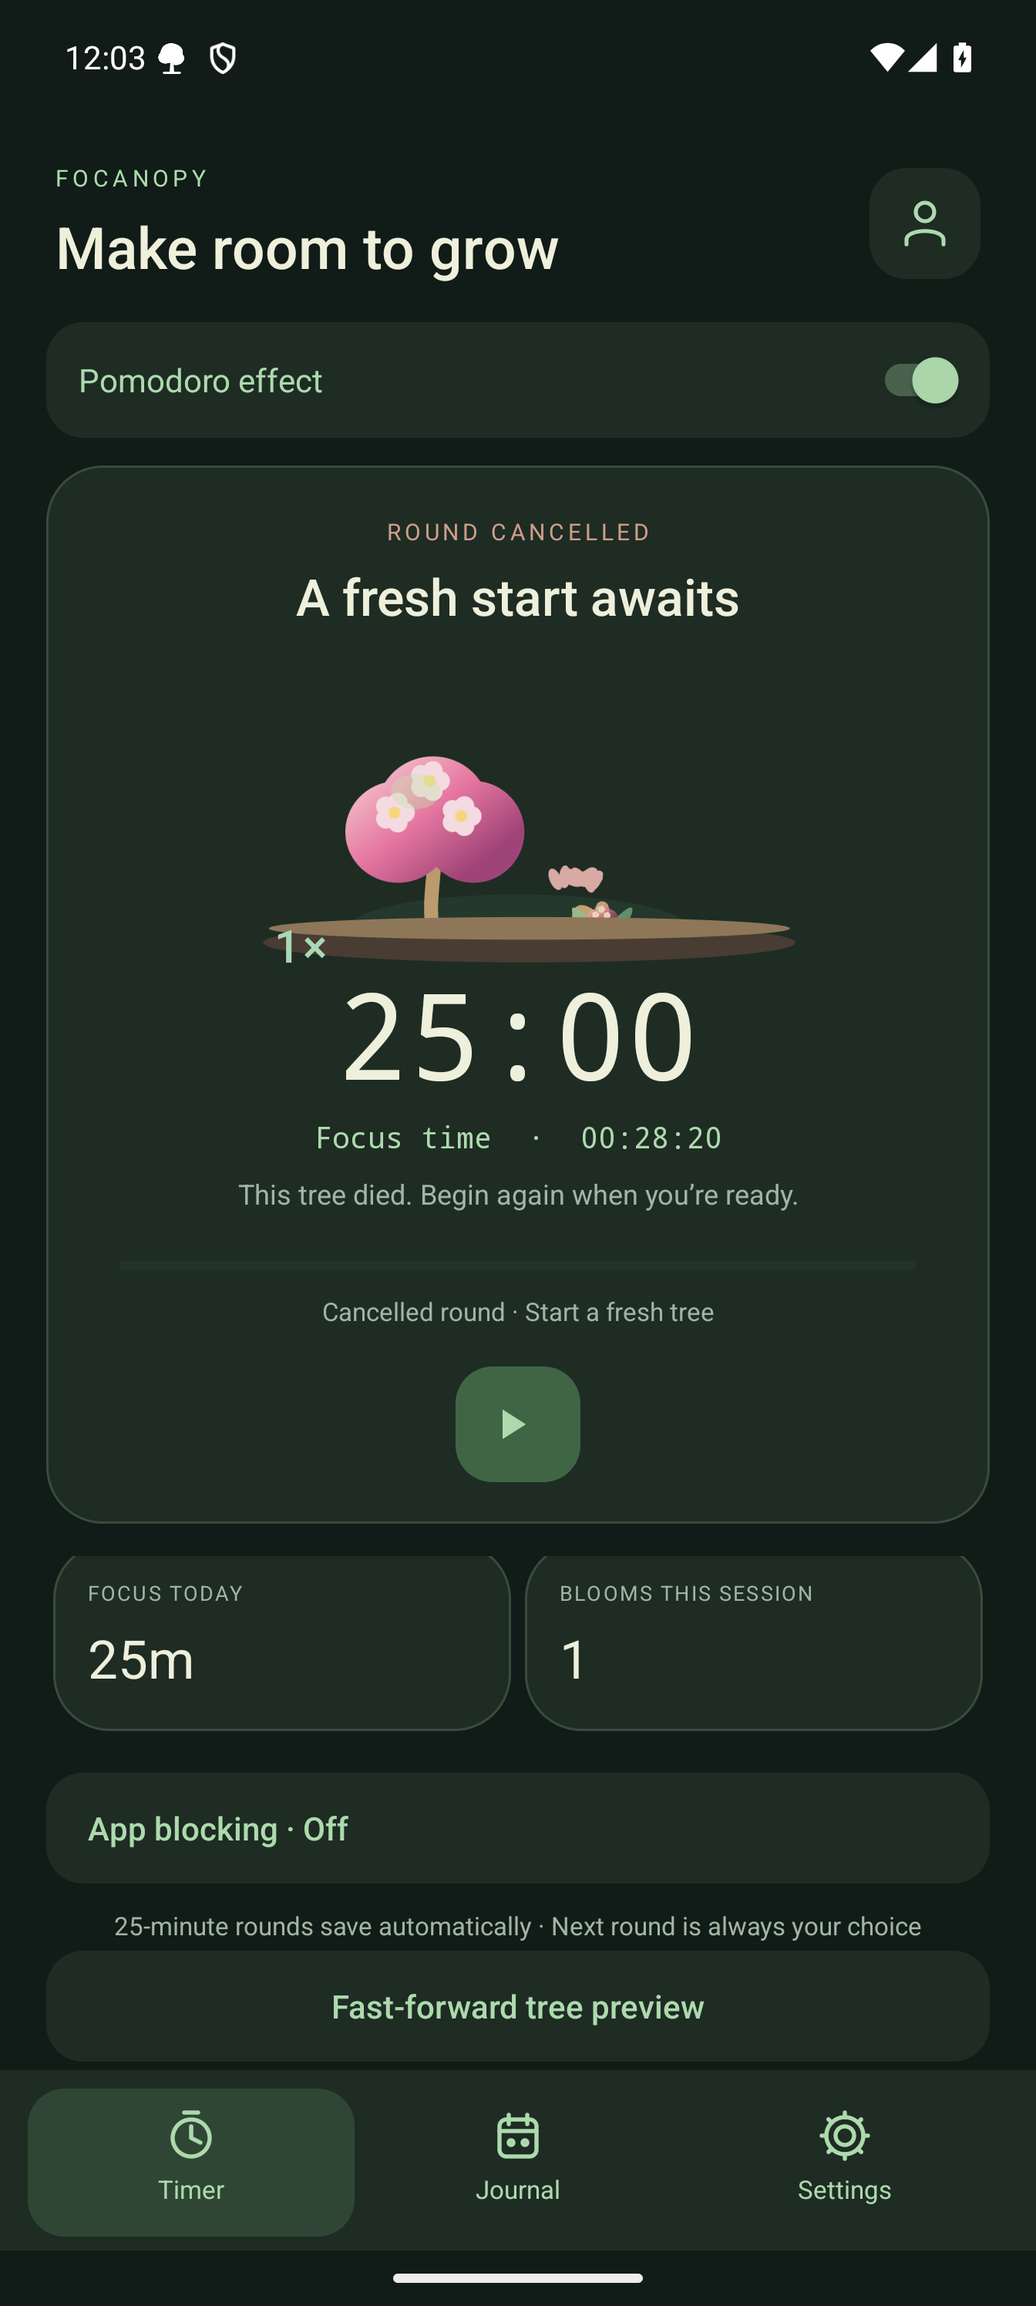
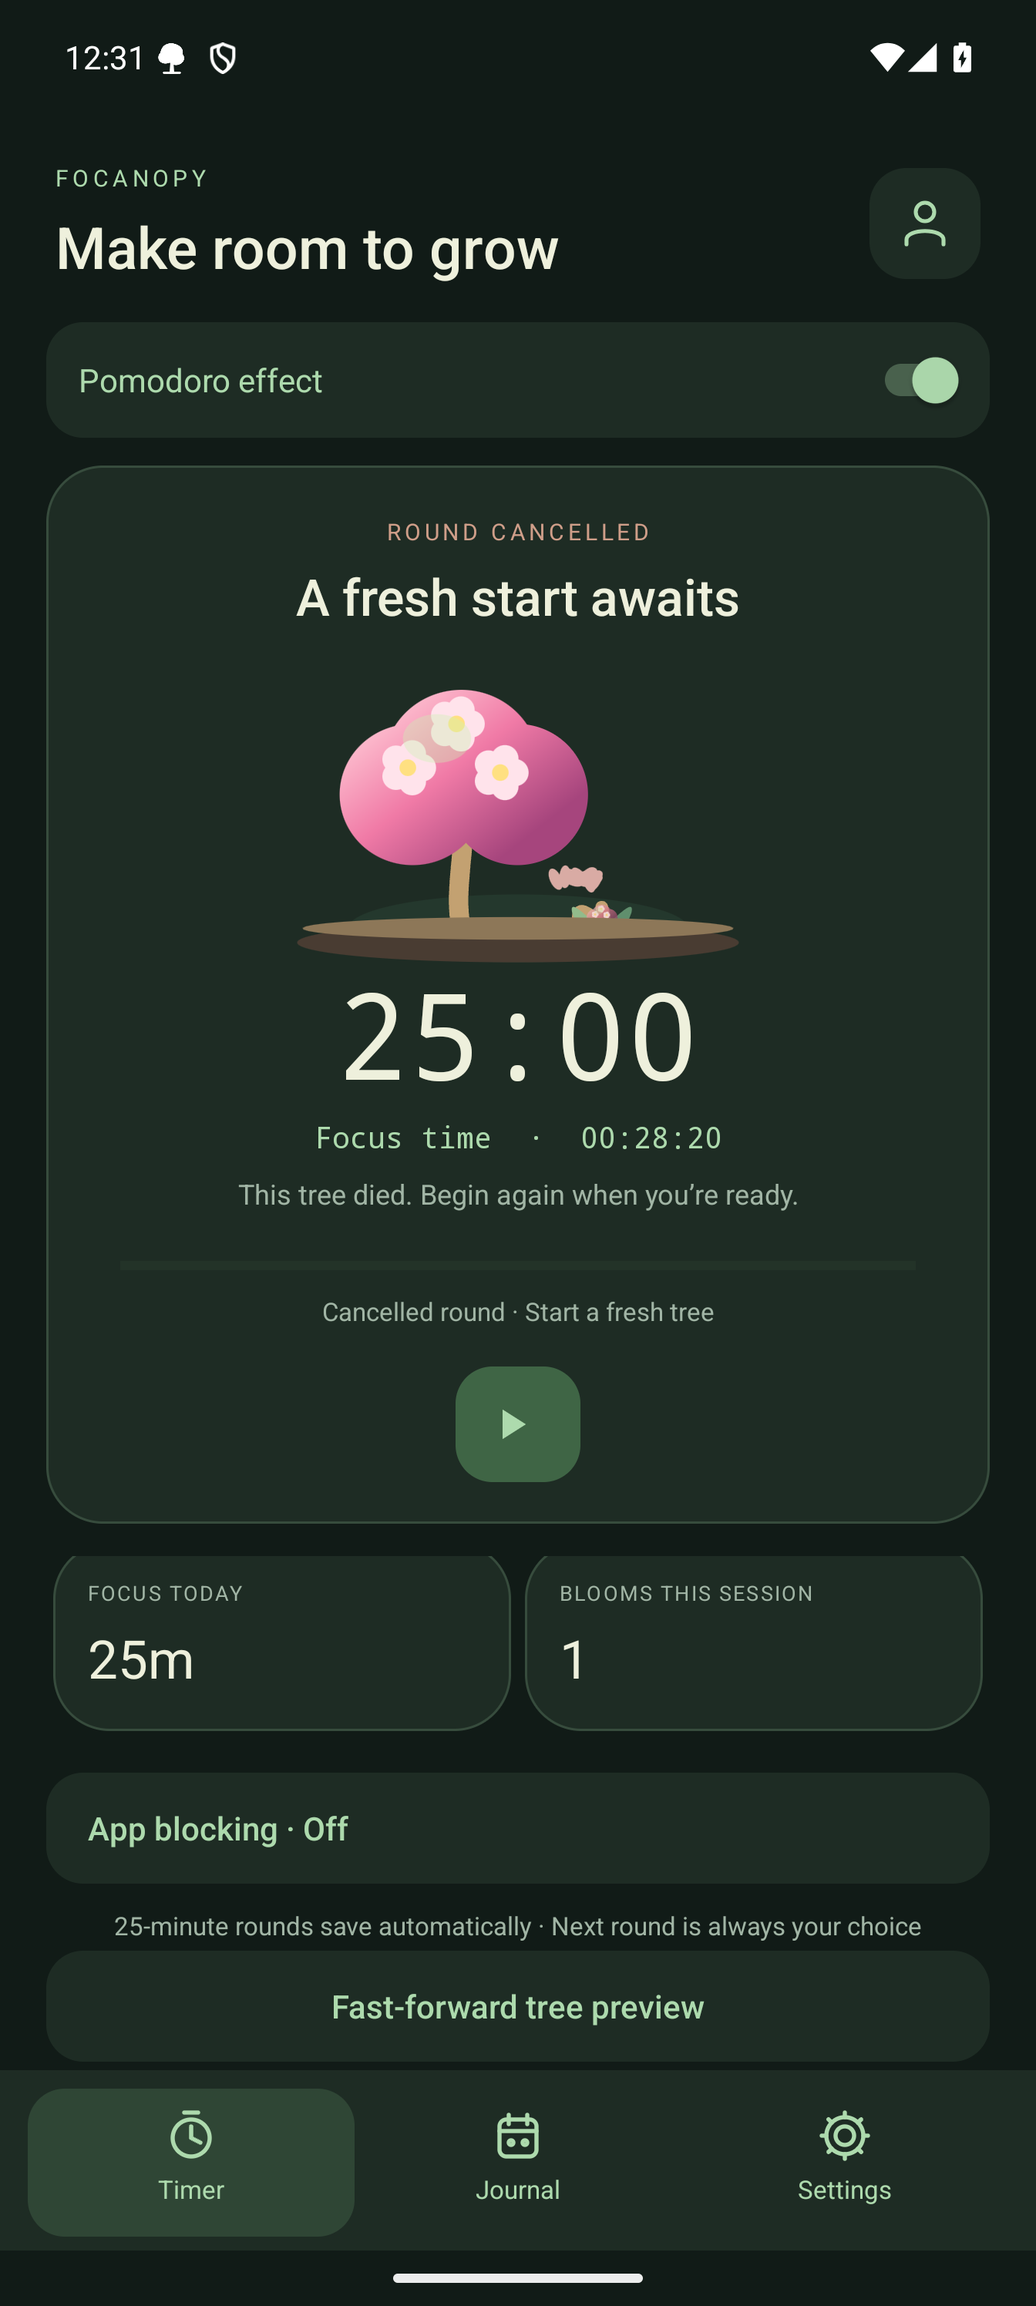
Preserve tree continuity with layered grove handoff animation

Changed region(s): [[0.3125, 0.2797, 0.5625, 0.4041], [0.6875, 0.373, 0.75, 0.4352], [0.25, 0.4041, 0.3125, 0.4352]]

diff --git a/macos/Sources/MochiStopwatch/Views.swift b/macos/Sources/MochiStopwatch/Views.swift
@@ -73,24 +73,22 @@ struct GrowingTree: View {
                         c.fill(Path(ellipseIn:CGRect(x:43,y:top-16,width:14,height:10)),with:.color(Color(red:0.8,green:0.95,blue:0.7).opacity(0.35)))
                     }
                 }
-                if n>0 {
-                    let centers:[Double]=n==1 ? [40] : n==2 ? [26,44] : [19,35,51]
-                    for (i,x) in centers.enumerated() { tree(1,0.95,x,n==1 ? 0.62 : i==1 ? 0.52 : 0.44) }
-                }
-                let activeX:Double=n==1 ? 66 : n==2 ? 70 : n>2 ? 77 : 55
-                tree(remainder/3600,1,activeX,1,dry)
-                ellipse(CGRect(x:n>0 ? 10:activeX-25,y:50,width:n>0 ? 94:51,height:7),Color(red:0.29,green:0.24,blue:0.20))
-                ellipse(CGRect(x:n>0 ? 11:activeX-24,y:49,width:n>0 ? 92:49,height:4),(dry ? Color(red:0.55,green:0.47,blue:0.35) : Color(red:0.42,green:0.61,blue:0.44)))
+                let grove=GroveFrame.at(count:n,remainder:remainder,animated:animated && !reduceMotion,flower:flower)
+                for layer in grove.trees {tree(1,layer.alpha,layer.x,layer.scale)}
+                let activeX=grove.active
+                tree(remainder/3600,grove.seedAlpha,activeX,1,dry)
+                ellipse(CGRect(x:16,y:50,width:78,height:7),Color(red:0.29,green:0.24,blue:0.20))
+                ellipse(CGRect(x:17,y:49,width:76,height:4),dry ? Color(red:0.55,green:0.47,blue:0.35):Color(red:0.42,green:0.61,blue:0.44))
                 if motion && phase == .running {
                     let u=t.truncatingRemainder(dividingBy:3.6)/3.6, fall=min(1,u/0.78), y=3+44*fall*fall
                     let water=ctx
                     if u<0.78 {
-                        var p=Path(); p.move(to:CGPoint(x:84,y:y-5)); p.addCurve(to:CGPoint(x:81,y:y+5),control1:CGPoint(x:82,y:y-2),control2:CGPoint(x:78,y:y+3)); p.addCurve(to:CGPoint(x:84,y:y-5),control1:CGPoint(x:87,y:y+9),control2:CGPoint(x:90,y:y+2))
+                        var p=Path(); p.move(to:CGPoint(x:activeX+4,y:y-5)); p.addCurve(to:CGPoint(x:activeX+1,y:y+5),control1:CGPoint(x:activeX+2,y:y-2),control2:CGPoint(x:activeX-2,y:y+3)); p.addCurve(to:CGPoint(x:activeX+4,y:y-5),control1:CGPoint(x:activeX+7,y:y+9),control2:CGPoint(x:activeX+10,y:y+2))
                         water.fill(p,with:.color(Color(red:0.65,green:0.85,blue:0.80)))
-                        water.fill(Path(ellipseIn:CGRect(x:82,y:y+1,width:1.5,height:2.5)),with:.color(.white.opacity(0.8)))
+                        water.fill(Path(ellipseIn:CGRect(x:activeX+2,y:y+1,width:1.5,height:2.5)),with:.color(.white.opacity(0.8)))
                     } else {
                         let r=(u-0.78)/0.22
-                        water.stroke(Path(ellipseIn:CGRect(x:84-10*r,y:51-2*r,width:20*r,height:4*r)),with:.color(Color.cyber.opacity((1-r)*0.65)),lineWidth:0.8)
+                        water.stroke(Path(ellipseIn:CGRect(x:activeX+4-10*r,y:51-2*r,width:20*r,height:4*r)),with:.color(Color.cyber.opacity((1-r)*0.65)),lineWidth:0.8)
                     }
                 }
                 if dead {
@@ -106,7 +104,7 @@ struct GrowingTree: View {
                         }
                     }
                 }
-                if n>0 { ctx.draw(Text("\(n)×").font(.system(size:8,weight:.semibold)).foregroundStyle(Color(red:0.66,green:0.85,blue:0.71)),at:CGPoint(x:23,y:55)) }
+
             }
         }.frame(width:110,height:58)
         .task(id:dead) {

diff --git a/android/app/src/main/java/com/cybercat/stopwatch/TreeView.kt b/android/app/src/main/java/com/cybercat/stopwatch/TreeView.kt
@@ -74,23 +74,21 @@ class TreeView(c:Context):View(c) {
                 ellipse(43f,top-16,14f,10f,Color.argb(95,203,242,180));c.restoreToCount(alphaLayer); c.restore()
             }; c.restoreToCount(layer)
         }
-        if(n>0) {
-            val centers=if(n==1L)listOf(40f) else if(n==2L)listOf(26f,44f) else listOf(19f,35f,51f)
-            centers.forEachIndexed { i,x -> tree(1f,.95f,x,if(n==1L).62f else if(i==1).52f else .44f) }
-        }
-        val active=if(n==1L)66f else if(n==2L)70f else if(n>2)77f else 55f
-        tree(remainder/3600,1f,active,1f,dry)
-        ellipse(if(n>0)10f else active-25,50f,if(n>0)94f else 51f,7f,Color.rgb(73,60,50)); ellipse(if(n>0)11f else active-24,49f,if(n>0)92f else 49f,4f,if(dry)Color.rgb(141,119,88) else Color.rgb(106,156,112))
+        val grove=Grove.frame(n,remainder,animate && motionEnabled,flower)
+        grove.trees.forEach {tree(1f,it.alpha,it.x,it.scale)}
+        val active=grove.active
+        tree(remainder/3600,grove.seedAlpha,active,1f,dry)
+        ellipse(16f,50f,78f,7f,Color.rgb(73,60,50));ellipse(17f,49f,76f,4f,if(dry)Color.rgb(141,119,88) else Color.rgb(106,156,112))
         if(motion && phase=="running") {
             c.saveLayerAlpha(0f,0f,110f,58f,255)
             val u=(t%3.6/3.6).toFloat(); val fall=(u/.78f).coerceAtMost(1f); val y=3+44*fall*fall
             if(u<.78) {
-                val drop=Path().apply { moveTo(84f,y-5); cubicTo(82f,y-2,78f,y+3,81f,y+5); cubicTo(87f,y+9,90f,y+2,84f,y-5) }
+                val drop=Path().apply { moveTo(active+4,y-5); cubicTo(active+2,y-2,active-2,y+3,active+1,y+5); cubicTo(active+7,y+9,active+10,y+2,active+4,y-5) }
                 paint.shader=null; paint.style=Paint.Style.FILL; paint.color=Color.rgb(165,217,204); c.drawPath(drop,paint)
-                ellipse(82f,y+1,1.5f,2.5f,Color.rgb(212,245,255))
+                ellipse(active+2,y+1,1.5f,2.5f,Color.rgb(212,245,255))
             } else {
                 val r=(u-.78f)/.22f; paint.style=Paint.Style.STROKE; paint.color=Color.argb(((1-r)*160).toInt(),165,217,204); paint.strokeWidth=.8f
-                c.drawOval(84-10*r,51-2*r,84+10*r,51+2*r,paint)
+                c.drawOval(active+4-10*r,51-2*r,active+4+10*r,51+2*r,paint)
             }; c.restore()
         }
         if(phase=="dead") {
@@ -106,7 +104,6 @@ class TreeView(c:Context):View(c) {
                 }
             }
         }
-        if(n>0) { paint.shader=null; paint.style=Paint.Style.FILL; paint.color=Color.rgb(168,217,180); paint.textSize=8f; paint.typeface=Typeface.create("sans-serif-medium",Typeface.NORMAL); c.drawText("${n}×",12f,57f,paint) }
         c.restore()
     }
 }

diff --git a/macos/Sources/MochiStopwatch/Model.swift b/macos/Sources/MochiStopwatch/Model.swift
@@ -269,7 +269,24 @@ struct TreePreviewFrame {
         let t=max(0,min(27,time))
         if t<10 {return .init(elapsed:t/10*1500,dead:false,death:0,title:"01 · A seed becomes a flower")}
         if t<12 {return .init(elapsed:1500,dead:false,death:0,title:"02 · 25 minutes complete — flower saved")}
-        if t<20 {return .init(elapsed:1500+(t-12)/8*975,dead:false,death:0,title:"03 · A second tree begins")}
+        if t<14.4 {return .init(elapsed:1500+t-12,dead:false,death:0,title:"03 · A second tree begins")}
+        if t<20 {return .init(elapsed:1502.4+(t-14.4)/5.6*972.6,dead:false,death:0,title:"03 · A second tree begins")}
         return .init(elapsed:2475,dead:true,death:min(1,(t-20)/3.4),title:t<23.4 ? "04 · Cancelled — the unfinished tree withers":"05 · Completed flower safe · Cancelled tree lost")
+    }
+}
+
+/// Elapsed-time choreography keeps a completed tree continuous across the hour boundary.
+struct GroveFrame {
+    struct Tree {let x:Double;let scale:Double;let alpha:Double}
+    let trees:[Tree];let active:Double;let seedAlpha:Double
+    static func at(count:Int,remainder:Double,animated:Bool=true,flower:Bool=false)->GroveFrame {
+        let v=animated ? min(1,max(0,remainder/(flower ? 5.76:2.4))):1
+        let ease=v*v*(3-2*v)
+        let targets=[Tree(x:45,scale:0.86,alpha:1),Tree(x:30,scale:0.70,alpha:0.86),Tree(x:20,scale:0.56,alpha:0.72),Tree(x:12,scale:0.46,alpha:0)]
+        let trees=(0..<min(count,4)).reversed().map {rank in
+            let a=rank==0 ? Tree(x:count==1 ? 55:66,scale:1,alpha:1):targets[rank-1],b=targets[rank]
+            return Tree(x:a.x+(b.x-a.x)*ease,scale:a.scale+(b.scale-a.scale)*ease,alpha:a.alpha+(b.alpha-a.alpha)*ease)
+        }
+        return GroveFrame(trees:trees,active:count>0 ? 66:55,seedAlpha:count>0 ? ease:1)
     }
 }

diff --git a/android/app/src/test/java/com/cybercat/stopwatch/GroveTest.kt b/android/app/src/test/java/com/cybercat/stopwatch/GroveTest.kt
@@ -1,0 +1,19 @@
+package com.cybercat.stopwatch
+import org.junit.Assert.*
+import org.junit.Test
+class GroveTest {
+    @Test fun completedTreeKeepsItsOriginalPoseAtBoundary() {
+        val start=Grove.frame(1,0f);assertEquals(55f,start.trees.single().x,0f);assertEquals(1f,start.trees.single().scale,0f);assertEquals(0f,start.seedAlpha,0f)
+        val half=Grove.frame(1,1.2f);assertEquals(50f,half.trees.single().x,.001f);assertEquals(.5f,half.seedAlpha,.001f)
+        assertEquals(45f,Grove.frame(1,2.4f).trees.single().x,.001f)
+    }
+    @Test fun nextBoundaryPreservesEveryExistingTreeAndBoundsClutter() {
+        val start=Grove.frame(2,0f);assertEquals(45f,start.trees[0].x,0f);assertEquals(66f,start.trees[1].x,0f)
+        assertEquals(4,Grove.frame(100,5f).trees.size);assertEquals(0f,Grove.frame(100,5f).trees.first().alpha,0f)
+        assertEquals(Grove.frame(2,1f),Grove.frame(2,1f))
+    }
+    @Test fun reducedMotionSettlesImmediatelyAndFlowerUsesSameRealDuration() {
+        assertEquals(45f,Grove.frame(1,0f,false).trees[0].x,0f)
+        assertEquals(.5f,Grove.frame(1,2.88f,true,true).seedAlpha,.001f)
+    }
+}

diff --git a/android/app/src/main/java/com/cybercat/stopwatch/Grove.kt b/android/app/src/main/java/com/cybercat/stopwatch/Grove.kt
@@ -1,0 +1,17 @@
+package com.cybercat.stopwatch
+
+/** Pure layout: preserves the completed tree while the next seed emerges in front. */
+object Grove {
+    data class Tree(val x:Float,val scale:Float,val alpha:Float)
+    data class Frame(val trees:List<Tree>,val active:Float,val seedAlpha:Float)
+    fun frame(count:Long,remainder:Float,animated:Boolean=true,flower:Boolean=false):Frame {
+        val v=if(animated)(remainder/(if(flower)5.76f else 2.4f)).coerceIn(0f,1f) else 1f
+        val ease=v*v*(3-2*v)
+        val targets=listOf(Tree(45f,.86f,1f),Tree(30f,.70f,.86f),Tree(20f,.56f,.72f),Tree(12f,.46f,0f))
+        val trees=(0 until minOf(count,4).toInt()).reversed().map {rank->
+            val a=if(rank==0)Tree(if(count==1L)55f else 66f,1f,1f) else targets[rank-1];val b=targets[rank]
+            Tree(a.x+(b.x-a.x)*ease,a.scale+(b.scale-a.scale)*ease,a.alpha+(b.alpha-a.alpha)*ease)
+        }
+        return Frame(trees,if(count>0)66f else 55f,if(count>0)ease else 1f)
+    }
+}

diff --git a/macos/Tests/MochiTests/StopwatchTests.swift b/macos/Tests/MochiTests/StopwatchTests.swift
@@ -16,6 +16,12 @@ func XCTAssertGreaterThan(_ a: Double, _ b: Double) { precondition(a > b) }
         XCTAssertEqual(TreePreviewFrame.at(10).elapsed,1500,accuracy:0.001)
         precondition(!TreePreviewFrame.at(10).dead && TreePreviewFrame.at(20).dead)
         XCTAssertEqual(TreePreviewFrame.at(21.7).death,0.5,accuracy:0.001);XCTAssertEqual(TreePreviewFrame.at(100).death,1,accuracy:0.001)
+        let handoff=GroveFrame.at(count:1,remainder:0)
+        XCTAssertEqual(handoff.trees[0].x,55);XCTAssertEqual(handoff.trees[0].scale,1);XCTAssertEqual(handoff.seedAlpha,0)
+        let half=GroveFrame.at(count:1,remainder:1.2)
+        XCTAssertEqual(half.trees[0].x,50,accuracy:0.001);XCTAssertEqual(half.seedAlpha,0.5,accuracy:0.001)
+        XCTAssertEqual(GroveFrame.at(count:1,remainder:0,animated:false).trees[0].x,45)
+        precondition(GroveFrame.at(count:100,remainder:5).trees.count==4)
         tests.testFormatting()
         tests.testForest()
         try tests.testGooglePKCE()

diff --git a/android/app/src/main/java/com/cybercat/stopwatch/Pomodoro.kt b/android/app/src/main/java/com/cybercat/stopwatch/Pomodoro.kt
@@ -39,7 +39,8 @@ data class TreePreviewFrame(val elapsed:Long,val dead:Boolean,val death:Float,va
             return when {
                 t<10 -> TreePreviewFrame((t/10*Pomodoro.FOCUS).toLong(),false,0f,"01 · A seed becomes a flower")
                 t<12 -> TreePreviewFrame(Pomodoro.FOCUS,false,0f,"02 · 25 minutes complete — flower saved")
-                t<20 -> TreePreviewFrame(Pomodoro.FOCUS+((t-12)/8*975000).toLong(),false,0f,"03 · A second tree begins")
+                t<14.4 -> TreePreviewFrame(Pomodoro.FOCUS+((t-12)*1000).toLong(),false,0f,"03 · A second tree begins")
+                t<20 -> TreePreviewFrame(1502400+((t-14.4f)/5.6f*972600).toLong(),false,0f,"03 · A second tree begins")
                 else -> TreePreviewFrame(2475000,true,((t-20)/3.4f).coerceIn(0f,1f),if(t<23.4)"04 · Cancelled — the unfinished tree withers" else "05 · Completed flower safe · Cancelled tree lost")
             }
         }

diff --git a/android/app/src/main/java/com/cybercat/stopwatch/MainActivity.kt b/android/app/src/main/java/com/cybercat/stopwatch/MainActivity.kt
@@ -503,7 +503,7 @@ class MainActivity: Activity() {
         section("Explore & manage")
         settingsRow("Fast-forward tree preview","Watch a little tree’s complete lifecycle") {treePreviewDialog()}
         settingsRow("Export session history","Save your journal as a JSON file") {exportHistory()}
-        root.addView(text("Focanopy · 1.11.0",12f,cyan).apply {gravity=Gravity.CENTER;setPadding(0,dp(24),0,dp(8))})
+        root.addView(text("Focanopy · 1.12.0",12f,cyan).apply {gravity=Gravity.CENTER;setPadding(0,dp(24),0,dp(8))})
         root.addView(text("Made for small, steady progress. Your sessions stay on this device unless you choose to sync.",12f,Color.rgb(161,181,165)).apply {gravity=Gravity.CENTER})
     }
 }

diff --git a/desktop/cybercat/tree.py b/desktop/cybercat/tree.py
@@ -3,6 +3,7 @@ import math
 from PySide6.QtCore import Qt, QRectF
 from PySide6.QtGui import QColor, QPen, QPainterPath, QLinearGradient, QFont, QGuiApplication
 from .forest import trees, growth
+from .grove import grove_layout
 
 def smooth(x):
     x=max(0,min(1,x)); return x*x*(3-2*x)
@@ -54,13 +55,11 @@ def paint_tree(p, seconds, phase, animated=True, flower=False, death_progress=1.
             p.setBrush(QColor(203,242,180,95)); p.drawEllipse(QRectF(43,top-16,14,10))
             p.setBrush(QColor(22,80,57,45)); p.drawEllipse(QRectF(47,top+1,22,9)); p.restore()
         p.restore()
-    if n:
-        centers=[40] if n==1 else [26,44] if n==2 else [19,35,51]
-        for i,x in enumerate(centers): tree(1,.95,x,.62 if n==1 else .52 if i==1 else .44)
-    active=66 if n==1 else 70 if n==2 else 77 if n else 55
-    tree(progress,1,active,1,dry)
-    p.setPen(Qt.PenStyle.NoPen); p.setBrush(QColor('#493c32')); p.drawEllipse(QRectF(10 if n else active-25,50,94 if n else 51,7))
-    p.setBrush(QColor('#8d7758' if dry else '#6a9c70')); p.drawEllipse(QRectF(11 if n else active-24,49,92 if n else 49,4))
+    layers,active,seed_alpha=grove_layout(n,seconds%3600,animated,flower)
+    for layer in layers:tree(1,layer.alpha,layer.x,layer.scale)
+    tree(progress,seed_alpha,active,1,dry)
+    p.setPen(Qt.PenStyle.NoPen); p.setBrush(QColor('#493c32')); p.drawEllipse(QRectF(16,50,78,7))
+    p.setBrush(QColor('#8d7758' if dry else '#6a9c70')); p.drawEllipse(QRectF(17,49,76,4))
     if phase=='dead':
         g=progress;top=51-(5+23*g)-9*g
         for i in range(15):
@@ -74,10 +73,8 @@ def paint_tree(p, seconds, phase, animated=True, flower=False, death_progress=1.
         u=(t%3.6)/3.6; fall=min(1,u/.78); y=3+44*fall*fall
         p.save(); p.setOpacity(1)
         if u<.78:
-            drop=QPainterPath(); drop.moveTo(84,y-5); drop.cubicTo(82,y-2,78,y+3,81,y+5); drop.cubicTo(87,y+9,90,y+2,84,y-5)
-            p.setBrush(QColor('#a5d9cc')); p.drawPath(drop); p.setBrush(QColor('#d4f5ff')); p.drawEllipse(QRectF(82,y+1,1.5,2.5))
+            drop=QPainterPath(); drop.moveTo(active+4,y-5); drop.cubicTo(active+2,y-2,active-2,y+3,active+1,y+5); drop.cubicTo(active+7,y+9,active+10,y+2,active+4,y-5)
+            p.setBrush(QColor('#a5d9cc')); p.drawPath(drop); p.setBrush(QColor('#d4f5ff')); p.drawEllipse(QRectF(active+2,y+1,1.5,2.5))
         else:
-            r=(u-.78)/.22; p.setBrush(Qt.BrushStyle.NoBrush); p.setPen(QPen(QColor(165,217,204,int((1-r)*160)),.8)); p.drawEllipse(QRectF(84-10*r,51-2*r,20*r,4*r))
+            r=(u-.78)/.22; p.setBrush(Qt.BrushStyle.NoBrush); p.setPen(QPen(QColor(165,217,204,int((1-r)*160)),.8)); p.drawEllipse(QRectF(active+4-10*r,51-2*r,20*r,4*r))
         p.restore()
-    if n:
-        p.setPen(QColor('#a8d9b4')); p.setFont(QFont(QGuiApplication.font().family(),8,QFont.Weight.DemiBold)); p.drawText(QRectF(8,48,32,10),Qt.AlignmentFlag.AlignCenter,str(n)+'×')

diff --git a/desktop/tests/test_widgets.py b/desktop/tests/test_widgets.py
@@ -69,9 +69,9 @@ class WidgetTests(unittest.TestCase):
             painter=QPainter(image);painter.scale(3,3);paint_tree(painter,2701,phase);painter.end();return image
         running=render('running'); paused=render('paused')
         self.assertNotEqual(running,paused)
-        # The water falls to the right of the canopy; this strip must be empty on pause.
-        self.assertTrue(any(running.pixelColor(x,y).alpha()>0 for x in range(246,270) for y in range(10,90)))
-        self.assertTrue(all(paused.pixelColor(x,y).alpha()==0 for x in range(246,270) for y in range(10,90)))
+        # Water now lands above the active seedling; test the air above its canopy.
+        self.assertTrue(any(running.pixelColor(x,y).alpha()>0 for x in range(168,201) for y in range(0,30)))
+        self.assertTrue(all(paused.pixelColor(x,y).alpha()==0 for x in range(168,201) for y in range(0,30)))
         self.assertEqual(render('running'),running)
     def test_calendar_and_popup_construct(self):
         self.c.show_history(); self.c.options(); self.app.processEvents()

diff --git a/desktop/tests/test_grove.py b/desktop/tests/test_grove.py
@@ -1,0 +1,15 @@
+import unittest
+from cybercat.grove import grove_layout
+class GroveTests(unittest.TestCase):
+    def test_handoff_preserves_previous_tree_and_interpolates(self):
+        layers,active,alpha=grove_layout(1,0)
+        self.assertEqual((layers[0].x,layers[0].scale,alpha),(55,1,0))
+        layers,_,alpha=grove_layout(1,1.2)
+        self.assertAlmostEqual(layers[0].x,50);self.assertAlmostEqual(alpha,.5)
+    def test_second_boundary_and_reduced_motion(self):
+        layers,_,_=grove_layout(2,0)
+        self.assertEqual([t.x for t in layers],[45,66])
+        self.assertEqual(grove_layout(1,0,False)[0][0].x,45)
+        self.assertEqual(grove_layout(100,10)[0][0].alpha,0)
+        self.assertEqual(len(grove_layout(100,10)[0]),4)
+        self.assertAlmostEqual(grove_layout(1,2.88,True,True)[2],.5)

diff --git a/desktop/cybercat/grove.py b/desktop/cybercat/grove.py
@@ -1,0 +1,19 @@
+"""Deterministic, elapsed-time-driven handoff; no animation state to lose on pause."""
+from dataclasses import dataclass
+
+@dataclass(frozen=True)
+class GroveTree:
+    x: float
+    scale: float
+    alpha: float
+
+def grove_layout(count, remainder, animated=True, flower=False):
+    v=max(0,min(1,remainder/(5.76 if flower else 2.4))) if animated else 1
+    ease=v*v*(3-2*v)
+    targets=[(45,.86,1),(30,.70,.86),(20,.56,.72),(12,.46,0)]
+    result=[]
+    for rank in reversed(range(min(count,4))):
+        end=targets[rank]
+        start=((55 if count==1 else 66),1,1) if rank==0 else targets[rank-1]
+        result.append(GroveTree(*(a+(b-a)*ease for a,b in zip(start,end))))
+    return result, (66 if count else 55), (ease if count else 1)
